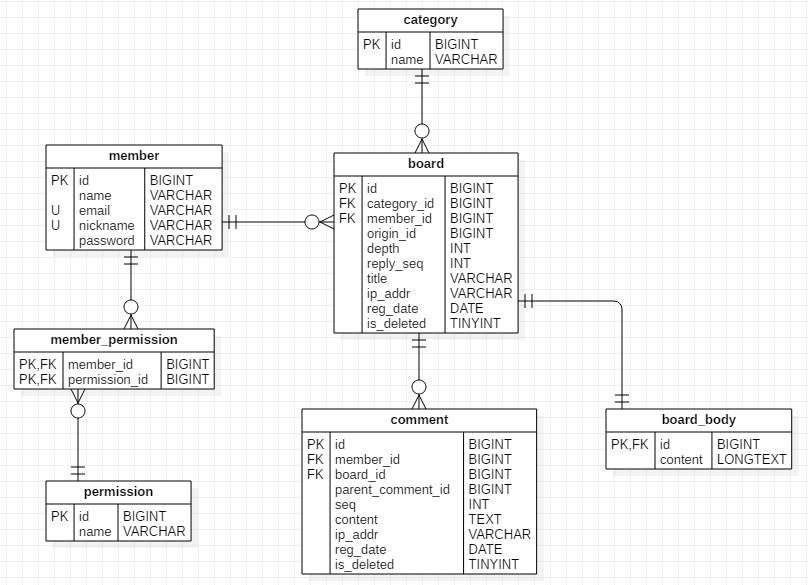
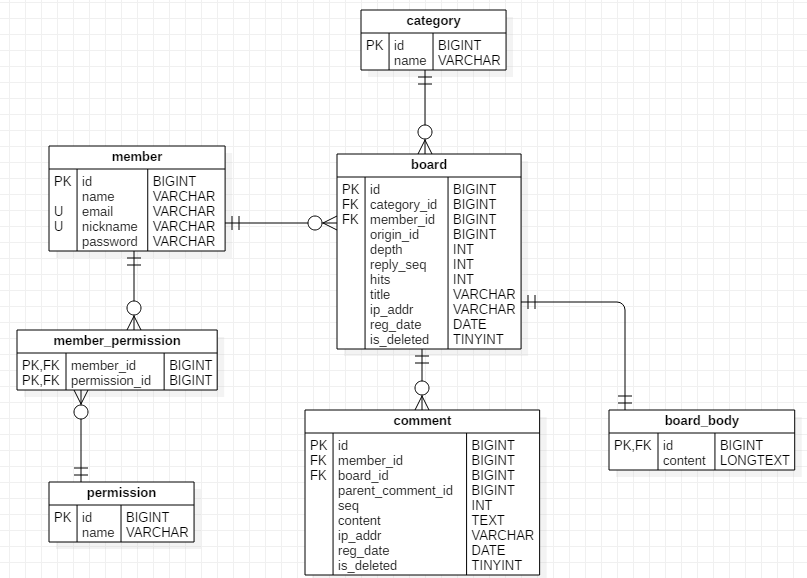
add column(hits)

Changed region(s): [[0.0, 0.0, 0.9913, 0.9965]]

diff --git a/toyboard/doc/01_Create Table.md b/toyboard/doc/01_Create Table.md
@@ -4,11 +4,11 @@
 
 ```sql
 CREATE TABLE member (
-    id bigint(20) AUTO_INCREMENT,
-    name varchar(50) NOT NULL,				-- 회원 이름
-    email varchar(50) NOT NULL UNIQUE,
-    nickname varchar(50) NOT NULL UNIQUE,	-- 회원이 사용할 닉네임
-    password varchar(255) NOT NULL,
+    id BIGINT(20) AUTO_INCREMENT,
+    name VARCHAR(50) NOT NULL,				-- 회원 이름
+    email VARCHAR(50) NOT NULL UNIQUE,
+    nickname VARCHAR(50) NOT NULL UNIQUE,	-- 회원이 사용할 닉네임
+    password VARCHAR(255) NOT NULL,
     PRIMARY KEY (id)
 );
 ```
@@ -16,8 +16,8 @@ CREATE TABLE member (
 - permission(권한)
 ```sql
 CREATE TABLE permission (
-    id bigint(20) AUTO_INCREMENT,
-    name varchar(20),
+    id BIGINT(20) AUTO_INCREMENT,
+    name VARCHAR(20) NOT NULL,
     PRIMARY KEY (id)
 );
 ```
@@ -25,8 +25,8 @@ CREATE TABLE permission (
 - member_permission(member-permission pivot table)
 ```sql
 CREATE TABLE member_permission (
-    member_id bigint(20) NOT NULL,
-    permission_id bigint(20) NOT NULL,
+    member_id BIGINT(20) NOT NULL,
+    permission_id BIGINT(20) NOT NULL,
     PRIMARY KEY (`permission_id`, `member_id`),
     FOREIGN KEY (member_id) REFERENCES member(id),
     FOREIGN KEY (permission_id) REFERENCES permission(id)
@@ -36,8 +36,8 @@ CREATE TABLE member_permission (
 - category(게시판 종류)
 ```sql
 CREATE TABLE category (
-    id bigint(20) AUTO_INCREMENT,
-    name varchar(20),
+    id BIGINT(20) AUTO_INCREMENT,
+    name VARCHAR(20) NOT NULL,
     PRIMARY KEY (id)
 );
 ```
@@ -45,16 +45,17 @@ CREATE TABLE category (
 - board(게시글, 답글) —> board_body와 1:1 관계
 ```sql
 CREATE TABLE board (
-    id bigint(20) AUTO_INCREMENT,
-    category_id bigint(20),           -- 게시판 종류
-    member_id bigint(20),             -- 작성자 id
-    origin_id bigint(20),             -- 어떤 글에 대한 답글인지, 게시판 id는 bigint이므로 똑같이 bigint형이 되야함
-    depth int(20),                    -- For indentation
-    reply_seq int(20),                -- 같은 depth인 답글끼리의 순서
-    title varchar(100),               -- 글 제목
-    ip_addr varchar(20),              -- 작성자의 IP 주소
-    reg_date date,                    -- 작성일
-    is_deleted tinyint(1) DEFAULT 0,  -- 삭제된 글인지(≓ boolean). 1이면 삭제된 글
+    id BIGINT(20) AUTO_INCREMENT,
+    category_id BIGINT(20) NOT NULL,          		-- 게시판 종류
+    member_id BIGINT(20) NOT NULL,             		-- 작성자 id
+    origin_id BIGINT(20) NOT NULL,             		-- 어떤 글에 대한 답글인지, 게시판 id는 bigint이므로 똑같이 bigint형이 되야함
+    depth INT(20) NOT NULL DEFAULT 0,          		-- For indentation
+    reply_seq INT(20) NOT NULL DEFAULT 0,     		-- 같은 depth인 답글끼리의 순서
+    hits INT(20) NOT NULL DEFAULT 0,		  		-- 조회수					
+    title VARCHAR(100) NOT NULL,               		-- 글 제목
+    ip_addr VARCHAR(20) NOT NULL,              		-- 작성자의 IP 주소
+    reg_date DATETIME NOT NULL,  					-- 작성일
+    is_deleted TINYINT(1) NOT NULL DEFAULT 0,  		-- 삭제된 글인지(≓ boolean). 1이면 삭제된 글
     PRIMARY KEY (id),
     FOREIGN KEY (member_id) REFERENCES member(id),
     FOREIGN KEY (category_id) REFERENCES category(id)
@@ -64,8 +65,8 @@ CREATE TABLE board (
 - board_body(본문 내용) —> 상세보기 할때만 사용
 ```sql
 CREATE TABLE board_body (
-    id bigint(20),
-    content longtext,  -- 게시글 본문 내용
+    id BIGINT(20),
+    content LONGTEXT,  -- 게시글 본문 내용
     PRIMARY KEY (id),
     FOREIGN KEY (id) REFERENCES board(id)
 );
@@ -74,15 +75,15 @@ CREATE TABLE board_body (
 - comment(댓글)
 ```sql
 CREATE TABLE comment (
-    id bigint(20) AUTO_INCREMENT,
-    member_id bigint(20),             -- 어떤 member가 작성한 댓글인지
-    board_id bigint(20),              -- 어떤 게시글에 대한 댓글인지
-    parent_comment_id bigint(20),     -- 댓글이면 id와 parent_comment_id 동일, 대댓글이면 parent_comment_id는 원댓글의 id
-    seq int(20),                      -- 한 댓글에 대한 대댓글끼리의 순서
-    content text,                     -- 댓글 내용
-    ip_addr varchar(20),              -- 작성자의 IP 주소
-    reg_date date,                    -- 댓글 작성일
-    is_deleted tinyint(1) DEFAULT 0,  -- 삭제된 댓글인지(≓ boolean). 1이면 삭제된 글
+    id BIGINT(20) AUTO_INCREMENT,
+    member_id BIGINT(20) NOT NULL,             	-- 어떤 member가 작성한 댓글인지
+    board_id BIGINT(20) NOT NULL,              	-- 어떤 게시글에 대한 댓글인지
+    parent_comment_id BIGINT(20) NOT NULL,     	-- 댓글이면 id와 parent_comment_id 동일, 대댓글이면 parent_comment_id는 원댓글의 id
+    seq INT(20) NOT NULL DEFAULT 0,            	-- 한 댓글에 대한 대댓글끼리의 순서
+    content TEXT NOT NULL,                     	-- 댓글 내용
+    ip_addr VARCHAR(20) NOT NULL,              	-- 작성자의 IP 주소
+    reg_date DATETIME NOT NULL,					-- 댓글 작성일
+    is_deleted TINYINT(1) DEFAULT 0,  			-- 삭제된 댓글인지(≓ boolean). 1이면 삭제된 글
     PRIMARY KEY (id),
     FOREIGN KEY (member_id) REFERENCES member(id),
     FOREIGN KEY (board_id) REFERENCES board(id)
@@ -92,13 +93,14 @@ CREATE TABLE comment (
 ```sql
 CREATE TABLE file
 (
-  idx   bigint(20) NOT NULL AUTO_INCREMENT,
-  board_idx bigint(20) NOT NULL,
+  id BIGINT(20) AUTO_INCREMENT,
+  board_id BIGINT(20) NOT NULL,
   original_file_name VARCHAR(260) NOT NULL,
   stored_file_name VARCHAR(260) NOT NULL,
-  file_size bigint(20),
-  reg_date  date,
-  del_gb    tinyint(1) DEFAULT 0 NOT NULL,
-  PRIMARY KEY (idx)
+  file_size BIGINT(20),
+  reg_date  DATETIME,
+  del_gb    TINYINT(1) DEFAULT 0 NOT NULL,
+  PRIMARY KEY (id),
+  FOREIGN KEY (board_id) REFERENCES board(id),
 );
 ```

diff --git a/toyboard/doc/03_SQL문 모음.md b/toyboard/doc/03_SQL문 모음.md
@@ -38,7 +38,7 @@ WHERE id = :id;
 
 - 게시판 목록 보기
 ```sql
-SELECT b.id, b.origin_id, b.depth, b.reply_seq, b.category_id, m.nickname, b.title, b.ip_addr, b.reg_date 
+SELECT b.id, b.category_id, m.nickname, b.origin_id, b.depth, b.reply_seq, b.hits, b.title, b.ip_addr, b.reg_date 
 FROM board AS b INNER JOIN member AS m ON b.member_id = m.id 
 WHERE category_id = :category_id 
 ORDER BY origin_id DESC, reply_seq ASC;
@@ -48,7 +48,7 @@ ORDER BY origin_id DESC, reply_seq ASC;
 - 게시글 조회: 이름
 ```sql
 -- 2개의 테이블을 조인하는 경우
-SELECT b.id, b.origin_id, b.depth, b.reply_seq, b.category_id, m.nickname, b.title, b.ip_addr, b.reg_date 
+SELECT b.id, b.category_id, m.nickname, b.origin_id, b.depth, b.reply_seq, b.hits, b.title, b.ip_addr, b.reg_date 
 FROM board AS b INNER JOIN member AS m ON b.member_id = m.id 
 WHERE category_id = :category_id AND m.nickname = :m.nickname
 ORDER BY b.origin_id DESC, b.reply_seq ASC;
@@ -57,7 +57,7 @@ ORDER BY b.origin_id DESC, b.reply_seq ASC;
 - 게시글 조회: 제목
 ```sql
 -- 2개의 테이블을 조인해서 보여주는 경우
-SELECT b.id, b.origin_id, b.depth, b.reply_seq, b.category_id, m.nickname, b.title, b.ip_addr, b.reg_date 
+SELECT b.id, b.category_id, m.nickname, b.origin_id, b.depth, b.reply_seq, b.hits, b.title, b.ip_addr, b.reg_date 
 FROM board AS b INNER JOIN member AS m ON b.member_id = m.id 
 WHERE b.category_id = :b.category_id AND b.title LIKE %:b.title% 
 ORDER BY b.origin_id DESC, b.reply_seq ASC;
@@ -68,7 +68,7 @@ ORDER BY b.origin_id DESC, b.reply_seq ASC;
 - 게시글 조회: 내용
 ```sql
 -- 3개의 테이블을 조인하는 방법
-SELECT b.id, b.origin_id, b.depth, b.reply_seq, b.category_id, m.nickname, b.title, b.ip_addr, b.reg_date 
+SELECT b.id, b.category_id, m.nickname, b.origin_id, b.depth, b.reply_seq, b.hits, b.title, b.ip_addr, b.reg_date 
 FROM board AS b INNER JOIN member AS m ON b.member_id = m.id 
 INNER JOIN board_body AS bb ON b.id = bb.id 
 WHERE b.category = :b.category AND bb.content LIKE %:bb.content% AND b.is_deleted = 0 
@@ -78,7 +78,7 @@ ORDER BY b.origin_id DESC, b.reply_seq ASC;
 - 게시글 조회: 제목+내용
 ```sql
 -- 3개의 테이블을 조인하는 방법
-SELECT b.id, b.origin_id, b.depth, b.reply_seq, b.category_id, m.nickname, b.title, b.ip_addr, b.reg_date 
+SELECT b.id, b.category_id, m.nickname, b.origin_id, b.depth, b.reply_seq, b.hits, b.title, b.ip_addr, b.reg_date 
 FROM board AS b INNER JOIN member AS m ON b.member_id = m.id 
 INNER JOIN board_body AS bb ON b.id = bb.id 
 WHERE b.category=:b.category AND 
@@ -88,13 +88,16 @@ ORDER BY b.origin_id DESC, b.reply_seq ASC;
 
 - 게시물 상세보기
 ```sql
-SELECT b.id, b.origin_id, b.depth, b.reply_seq, b.category_id, m.nickname, b.title, b.ip_addr, b.reg_date, bb.content 
+SELECT b.id, b.category_id, m.nickname, b.origin_id, b.depth, b.reply_seq, b.hits, b.title, b.ip_addr, b.reg_date, bb.content 
 FROM board AS b INNER JOIN member AS m ON b.member_id = m.id 
 INNER JOIN board_body AS bb ON b.id = bb.id 
 WHERE bb.id = :b.id;
 
+-- 게시물을 누군가가 보면 조회수가 늘어나야 함
+UPDATE board SET hits = hits + 1 WHERE board_id = :board_id;
+
 -- 댓글 List
-SELECT c.id, c.parent_comment_id, c.seq, m.name, c.content, c.ip_addr, c.reg_date 
+SELECT c.id, c.parent_comment_id, c.seq, m.nickname, c.content, c.ip_addr, c.reg_date 
 FROM comment AS c INNER JOIN member AS m ON c.member_id = m.id
 WHERE board_id = :board_id 
 ORDER BY parent_comment_id DESC, seq ASC;
@@ -108,7 +111,7 @@ ORDER BY parent_comment_id DESC, seq ASC;
 - 게시물 저장
 ```sql
 -- board 와 관련된 내용을 저장하고 board_body에 해당 board_id에 맞는 본문을 저장한다.
-INSERT INTO board (id, origin_id, depth, reply_seq, category_id, member_id, title, ip_addr, reg_date) 
+INSERT INTO board (id, category_id, member_id, origin_id, depth, reply_seq, hits, title, ip_addr, reg_date) 
 VALUES (null, :origin_id, :depth, :reply_seq, :category_id, :member_id, :title, :ip_addr, NOW());
 
 INSERT INTO board_body (id, content) VALUES (:board_id, :content);

diff --git a/toyboard/doc/02_Sample Data.md b/toyboard/doc/02_Sample Data.md
@@ -2,9 +2,72 @@
 
 ### 운영될 때 기본적으로 DB에 있어야 할 Data
 
-- 권한
+- permission(권한)
+
+```sql
+INSERT INTO permission (id, name) VALUES (null, 'Admin');
+INSERT INTO permission (id, name) VALUES (null, 'Secondary Admin');
+INSERT INTO permission (id, name) VALUES (null, 'User');
+```
 
 
 
 ### 개발할 때 Test를 위한 data
 
+- member(회원)
+
+```sql
+INSERT INTO member (id, name, email, nickname, password) VALUES (null, '관리자', 'admin@fc.com', 'admin' '1234');
+INSERT INTO member (id, name, email, nickname, password) VALUES (null, '김성박', 'urstory@fc.com', 'urstory' '1234');
+INSERT INTO member (id, name, email, nickname, password) VALUES (null, '신윤철', 'jeremy@fc.com', 'Jeremy' '1234');
+INSERT INTO member (id, name, email, nickname, password) VALUES (null, '최재용', 'jdragon@fc.com', 'JDragon' '1234');
+INSERT INTO member (id, name, email, nickname, password) VALUES (null, '김규민', 'starkying@fc.com', 'starkying' '1234');
+INSERT INTO member (id, name, email, nickname, password) VALUES (null, '김준형', 'crazy@fc.com', 'CrAzy' '1234');
+INSERT INTO member (id, name, email, nickname, password) VALUES (null, '주미선', 'misunjoo@fc.com', 'MisunJoo' '1234');
+```
+
+- permission(권한)
+
+```sql
+INSERT INTO permission (id, name) VALUES (null, 'Admin');
+INSERT INTO permission (id, name) VALUES (null, 'Secondary Admin');
+INSERT INTO permission (id, name) VALUES (null, 'User');
+```
+
+- member_permission(회원_권한)
+
+```sql
+INSERT INTO member_permission (member_id, permission_id) VALUES (1, 1);
+INSERT INTO member_permission (member_id, permission_id) VALUES (1, 2);
+INSERT INTO member_permission (member_id, permission_id) VALUES (1, 3);
+
+INSERT INTO member_permission (member_id, permission_id) VALUES (2, 2);
+INSERT INTO member_permission (member_id, permission_id) VALUES (2, 3);
+
+INSERT INTO member_permission (member_id, permission_id) VALUES (3, 3);
+INSERT INTO member_permission (member_id, permission_id) VALUES (4, 3);
+INSERT INTO member_permission (member_id, permission_id) VALUES (5, 3);
+INSERT INTO member_permission (member_id, permission_id) VALUES (6, 3);
+INSERT INTO member_permission (member_id, permission_id) VALUES (7, 3);
+```
+
+- category(카테고리)
+
+```sql
+INSERT INTO category (id, name) VALUES (null, '공지사항');
+INSERT INTO category (id, name) VALUES (null, 'Java');
+INSERT INTO category (id, name) VALUES (null, 'JSP');
+INSERT INTO category (id, name) VALUES (null, 'Spring');
+```
+
+- board(게시판)       ***TODO : hits(조회수) 칼럼이 추가 됨* **
+
+```sql
+INSERT INTO board (id, category_id, member_id, origin_id, depth, reply_seq, title, ip_addr, reg_date) VALUES (null, 2, 1, 1, 0, 1, 'Java 게시판에 오신걸 환영합니다!!', '192.168.10.10', NOW());
+INSERT INTO board (id, category_id, member_id, origin_id, depth, reply_seq, title, ip_addr, reg_date) VALUES (null, 3, 1, 1, 0, 1, 'JSP 게시판에 오신걸 환영합니다!!', '192.168.10.10', NOW());
+INSERT INTO board (id, category_id, member_id, origin_id, depth, reply_seq, title, ip_addr, reg_date) VALUES (null, 4, 1, 1, 0, 1, 'Spring 게시판에 오신걸 환영합니다!!', '192.168.10.10', NOW());
+```
+
+- depth = 1 답글
+- depth = 2 답글
+- comment(댓글)
